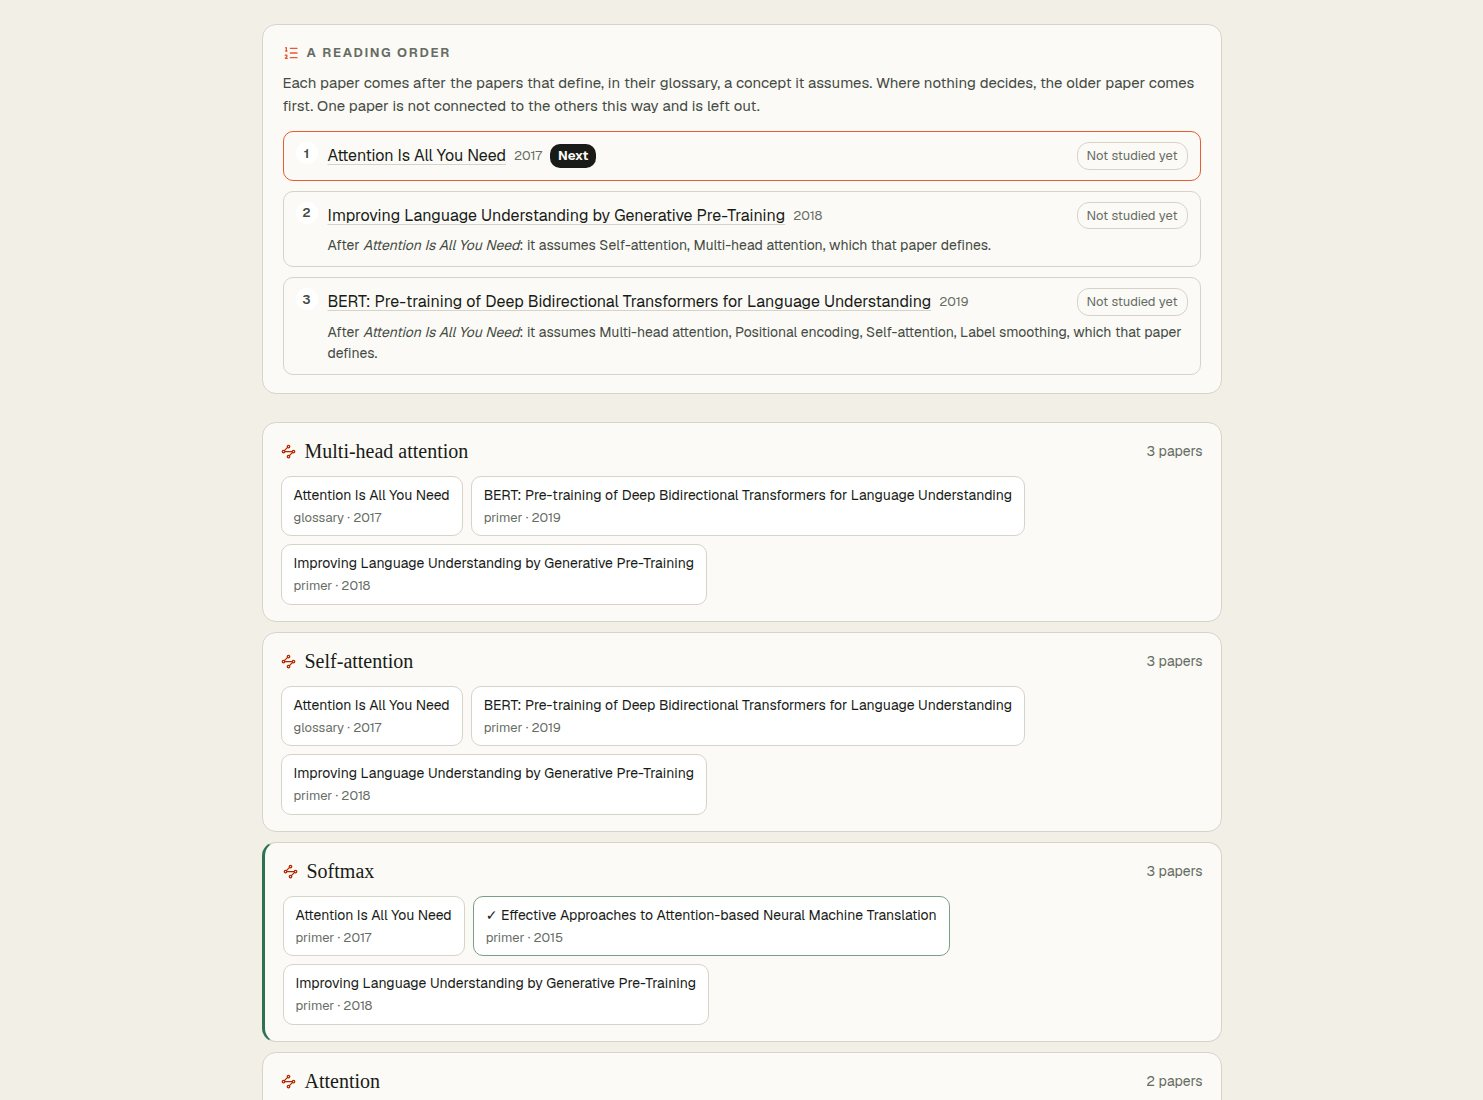
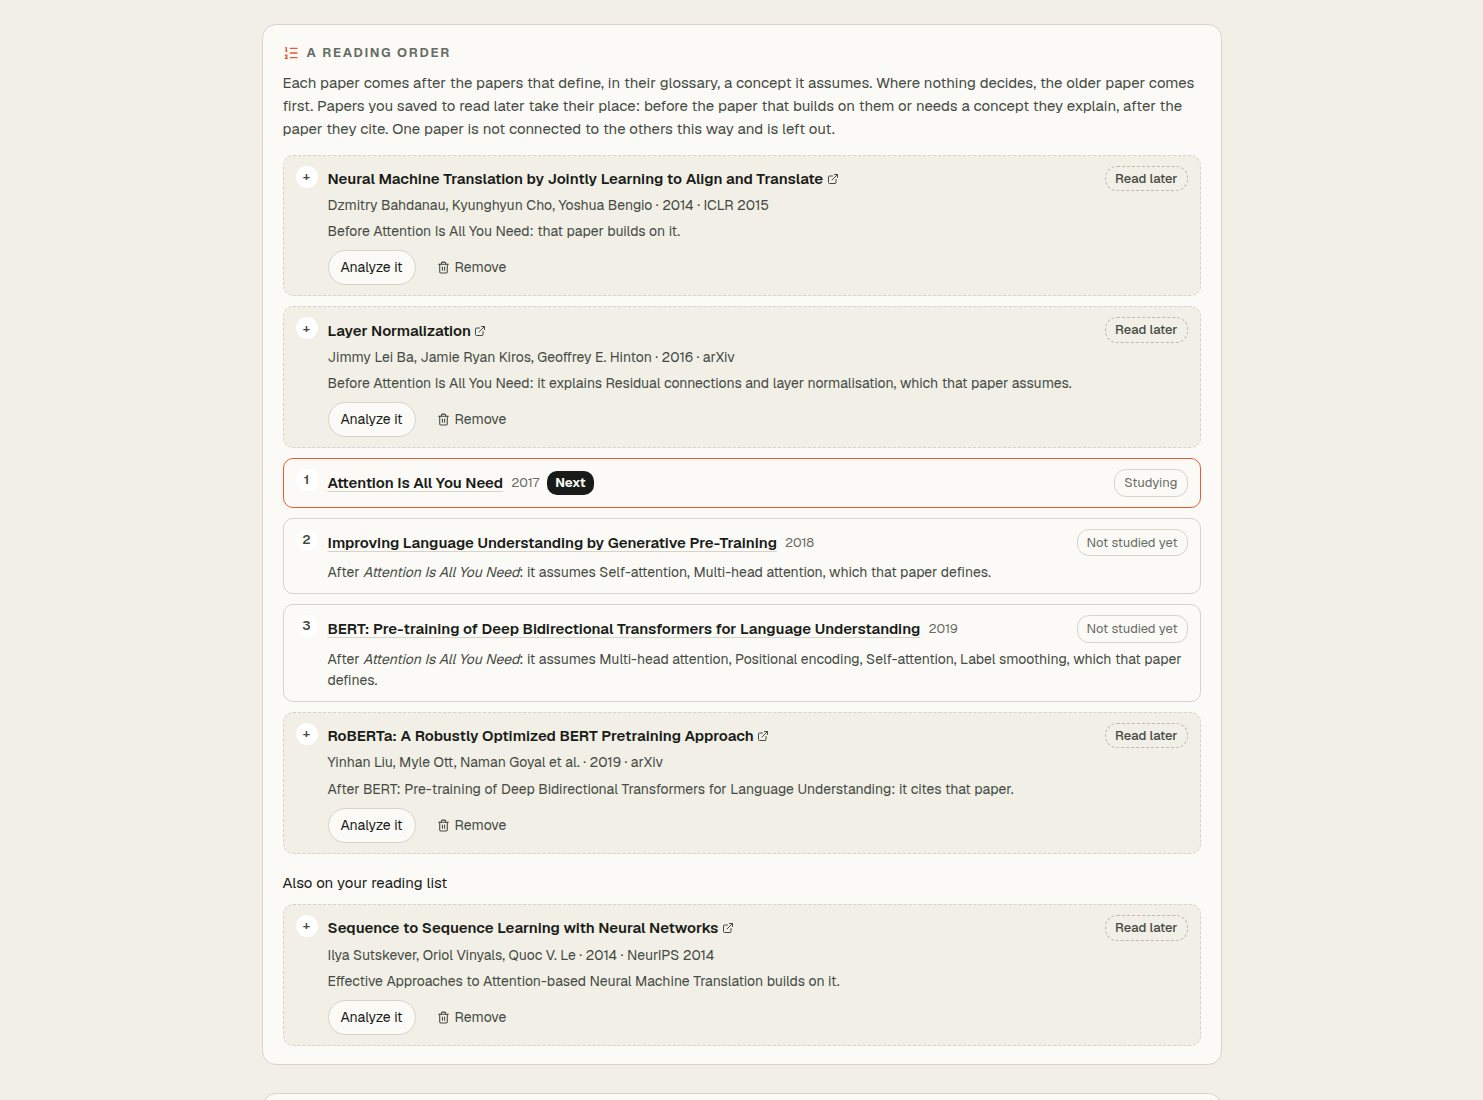
docs: README and plugin descriptions up to date; the paper map fits its sections
README: screenshots of the new features (review cards in a short break,
the weekly report, highlights and notes, the reading order with saved
works), example prompts for work time, notes and the reading list, the
workspaces paragraph (Notes, Reading list, Focus and the profile) and
the security notes for notes and the reading list. No What's new
section.

The plugin's store description in all four manifests, and Codex's long
description, now name the reading list, work time and notes. Plugin
0.27.1 so installed copies pick it up.

Also fixes two layout slips the screenshots showed: the paper map's
"linked sources" count was drawn over the last sections once the list
grew (it now follows them, and the list scrolls; a test checks three
window sizes), and "Your calendar" on the Focus screen broke over two
lines.

Claude-Session: https://claude.ai/code/session_01G2h2AZCsPvmxhdU5Cg5ADb

diff --git a/src/app/globals.css b/src/app/globals.css
@@ -116,12 +116,15 @@ button:focus-visible, a:focus-visible, input:focus-visible, textarea:focus-visib
 .warning-strip button { border: 0; border-bottom: 1px solid currentColor; background: none; cursor: pointer; }
 
 .lab-layout { min-height: calc(100vh - 67px); display: grid; grid-template-columns: 190px minmax(480px, 1fr) 340px; }
-.lab-nav { position: sticky; top: 67px; height: calc(100vh - 67px); padding: 28px 15px; border-right: 1px solid var(--line); background: var(--surface-2); }
+/* Sütun: bölümler çoğaldıkça kaynak sayısı onların altına iniyor, üstlerine binmiyor; sığmazsa menü kayıyor. */
+.lab-nav { position: sticky; top: 67px; height: calc(100vh - 67px); display: flex; flex-direction: column; overflow-y: auto; padding: 28px 15px; border-right: 1px solid var(--line); background: var(--surface-2); }
 .lab-nav-label { margin: 0 11px 18px; color: var(--muted); font-size: var(--text-2xs); text-transform: uppercase; letter-spacing: 0.14em; }
-.lab-nav > button { width: 100%; height: 38px; display: flex; align-items: center; gap: 10px; padding: 0 11px; border: 0; border-radius: 7px; background: transparent; color: var(--muted); cursor: pointer; font-size: var(--text-md); text-align: left; }
+.lab-nav > button { width: 100%; height: 38px; flex: none; display: flex; align-items: center; gap: 10px; padding: 0 11px; border: 0; border-radius: 7px; background: transparent; color: var(--muted); cursor: pointer; font-size: var(--text-md); text-align: left; }
 .lab-nav > button:hover, .lab-nav > button.active { background: var(--surface); color: var(--ink); }
 .lab-nav > button.active svg { color: var(--accent); }
-.source-count { position: absolute; inset: auto 20px 25px; padding-top: 16px; border-top: 1px solid var(--line); }
+.source-count { margin: auto 5px 0; padding-top: 16px; border-top: 1px solid var(--line); }
+.lab-nav > .source-count { flex: none; }
+.lab-nav > button:last-of-type { margin-bottom: 16px; }
 .source-count span { display: block; font: 2rem/1 Georgia, serif; }
 .source-count small { color: var(--muted); font-size: var(--text-xs); }
 .lab-main { min-width: 0; padding: clamp(38px, 5vw, 78px); background: var(--paper); }
@@ -877,7 +880,7 @@ html[data-text-size="larger"] { font-size: 125%; }
 /* --- Telefonda Lab gezinmesi -------------------------------------------- */
 .lab-nav-select { display: none; }
 @media (max-width: 760px) {
-  .lab-nav { height: auto; align-items: center; overflow: visible; }
+  .lab-nav { height: auto; flex-direction: row; align-items: center; overflow: visible; }
   .lab-nav > button { display: none; }
   .lab-nav-select { flex: 1; display: flex; align-items: center; gap: 12px; }
   .lab-nav-select span { flex-shrink: 0; color: var(--muted); font-size: var(--text-2xs); letter-spacing: .12em; text-transform: uppercase; }

diff --git a/e2e/studio.spec.ts b/e2e/studio.spec.ts
@@ -955,6 +955,22 @@ test.describe("reading comfort", () => {
     }
   });
 
+  test("keeps the paper map's source count below its sections, however many there are", async ({ page, request }) => {
+    const project = await seed(request, projectNamed("e2e-nav-fit"));
+    for (const [width, height] of [[1483, 812], [1280, 640], [1100, 560]] as const) {
+      await page.setViewportSize({ width, height });
+      await page.goto(`/?project=${project.id}`);
+      const count = page.locator(".lab-nav > .source-count");
+      await expect(count).toBeVisible();
+      // Konum menünün içinde: menü kaysa da sıra aynı.
+      const overlap = await page.evaluate(() => {
+        const box = document.querySelector<HTMLElement>(".lab-nav > .source-count")!;
+        return [...document.querySelectorAll<HTMLElement>(".lab-nav > button")].some((button) => button.offsetTop + button.offsetHeight > box.offsetTop);
+      });
+      expect(overlap, `${width}×${height}`).toBe(false);
+    }
+  });
+
   test("lets the reader choose a larger text size and remembers it", async ({ page, request }) => {
     const project = await seed(request, projectNamed("e2e-text-size"));
     await page.goto(`/?project=${project.id}`);

diff --git a/src/app/focus.css b/src/app/focus.css
@@ -140,6 +140,7 @@ html[data-theme="dark"] *, html[data-theme="dark"] ::before, html[data-theme="da
 
 .focus-today { position: sticky; top: 16px; display: grid; gap: 14px; }
 .focus-today-head { display: flex; align-items: flex-start; justify-content: space-between; gap: 12px; }
+.focus-today-head .focus-secondary { flex: none; white-space: nowrap; }
 .focus-today-head span { display: block; color: var(--muted); font-size: var(--text-xs); letter-spacing: .08em; text-transform: uppercase; }
 .focus-today-head strong { display: block; margin: 2px 0; font: 2.25rem/1.1 Georgia, serif; }
 .focus-today-head small { color: var(--ink-soft); font-size: var(--text-sm); }

diff --git a/README.md b/README.md
@@ -267,6 +267,8 @@ callouts, ready to drop into a vault. Your agent can write the same file into yo
 Put my notes on the Attention paper into my Obsidian vault. Use the Trace plugin.
 ```
 
+![Highlights and notes on the deep report](docs/images/notes.jpg)
+
 ### See what you have learned
 
 **Progress** in the library header adds up your study: papers finished and in progress, how many of
@@ -318,6 +320,8 @@ Answer them while you rest, or choose **Just rest**. What you remember moves the
 in Review; the break is not counted as work, and long breaks stay for rest. Turn it off with
 **Review a few cards in short breaks**.
 
+![Review cards in a short break](docs/images/break-review.jpg)
+
 ![The work timer](docs/images/focus.jpg)
 
 ### Your profile, and a calendar of the days you worked
@@ -346,6 +350,8 @@ overwritten, and a copy of the last seven days is kept in `~/.trace/backups`. **
 puts everything in one file; importing it on another computer adds its sessions and removes none.
 
 ![Your profile and work calendar](docs/images/profile.jpg)
+
+![This week against last, and when you work](docs/images/weekly-report.jpg)
 
 ### Connect what you learn across papers
 
@@ -832,6 +838,18 @@ Which concepts of that paper have I already studied in my other Trace papers, an
 Publish a link to it without the paper's figures, expiring in 30 days.
 ```
 
+```text
+How did my week go against last week, and which papers did the time go to?
+```
+
+```text
+Put my notes and highlights on that paper into my Obsidian vault.
+```
+
+```text
+Save the works that paper builds on to read later, and tell me what to read next.
+```
+
 When it finishes, the browser is already open — both the self-contained site and the full
 application, with the project sitting in your Library. Nothing to export, nothing to import,
 no server to start. The same folder keeps a portable `.trace.json` you can archive or share.
@@ -927,10 +945,11 @@ example project* (or add `?sample=1`) and the fully enriched *Attention Is All Y
 English or Turkish, chosen from your browser language. Both files also ship as plain downloads
 at `/examples/`, and any `.trace.json` imports through **Library → Trace JSON**.
 
-**Workspaces:** `Lab` inspects the evidence and holds **Study**, **Concepts** and the learning
-blocks, `Story` edits the narrative, `Preview` is the reading experience. The library header opens
-**Review** (the cards due today, from every paper) and **Concepts** (the map of what your papers
-share). **Regenerate** on a story section, or on a deep report section in `Lab`,
+**Workspaces:** `Lab` inspects the evidence and holds **Study**, **Concepts**, your **Notes** and
+the learning blocks, `Story` edits the narrative, `Preview` is the reading experience. The library
+header opens **Review** (the cards due today, from every paper), **Concepts** (the map of what your
+papers share, with the reading order) and, once you have saved something, **Reading list**. **Focus**
+and your profile sit in the header of every screen. **Regenerate** on a story section, or on a deep report section in `Lab`,
 rewrites only that section against the locked evidence. The same button appears on primer
 concepts, quiz questions, derivations and equations, and **Strengthen** in the evidence health
 panel rewrites a thin section with more evidence. The history button in the header opens
@@ -1075,7 +1094,7 @@ npm run build            # production build
 npm run build:artifacts  # regenerate the committed viewer + validator
 npm run check            # everything above, in order
 npm run test:e2e         # browser tests against the production build (run after build)
-npm run version:set -- 0.25.0  # write one version into the package and every plugin manifest
+npm run version:set -- 0.27.1  # write one version into the package and every plugin manifest
 npm run test:plugins -- --codex "$(which codex)" --claude "$(which claude)" --agy "$(which agy)" [--live]
 ```
 
@@ -1210,6 +1229,9 @@ the server.
 - PDF and web content are treated as source material, never as instructions.
 - Provider keys are used only for the active request. They never appear in exports or in the
   browser's storage: the remembered analysis setup has no field for a key.
+- Your notes and your reading list are kept next to the library (`notes.json`,
+  `reading-list.json`), never in a project, its exports or a published page. A saved work's link is
+  accepted only as an `http(s)` address, and a note is plain text, never rendered as HTML.
 - The profile and the work log live in `~/.trace`, behind the same password as the rest of the API.
   A photo is accepted only as a small JPEG, PNG or WebP image (the browser crops it to 192 pixels),
   a session cannot end in the future, and an import adds sessions without removing any; a profile
